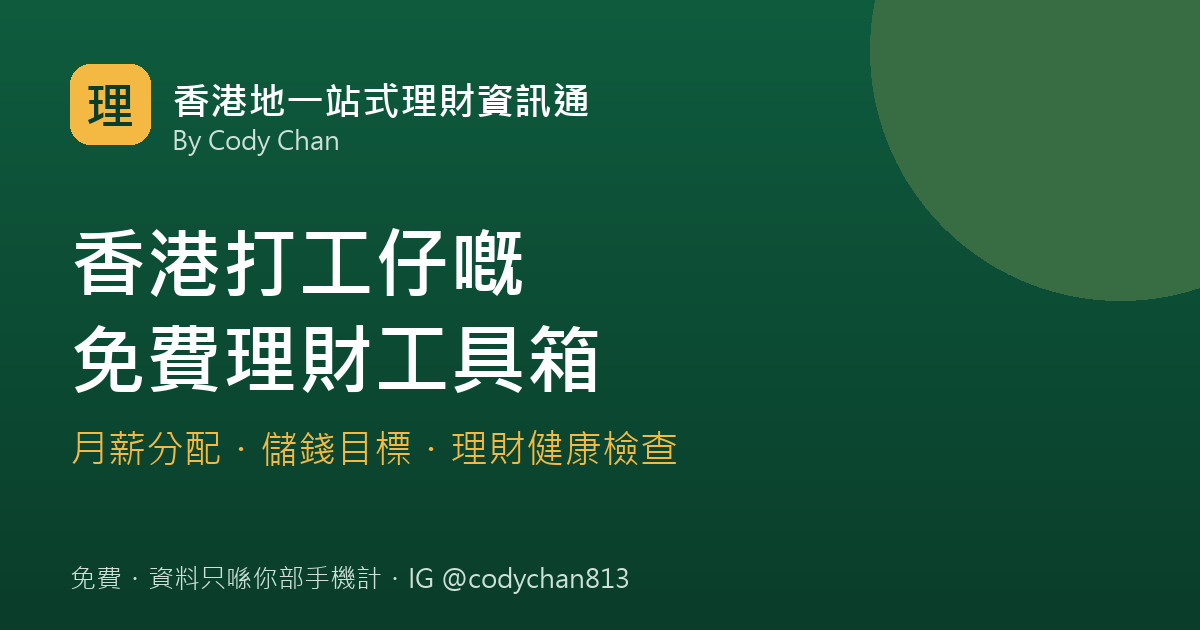
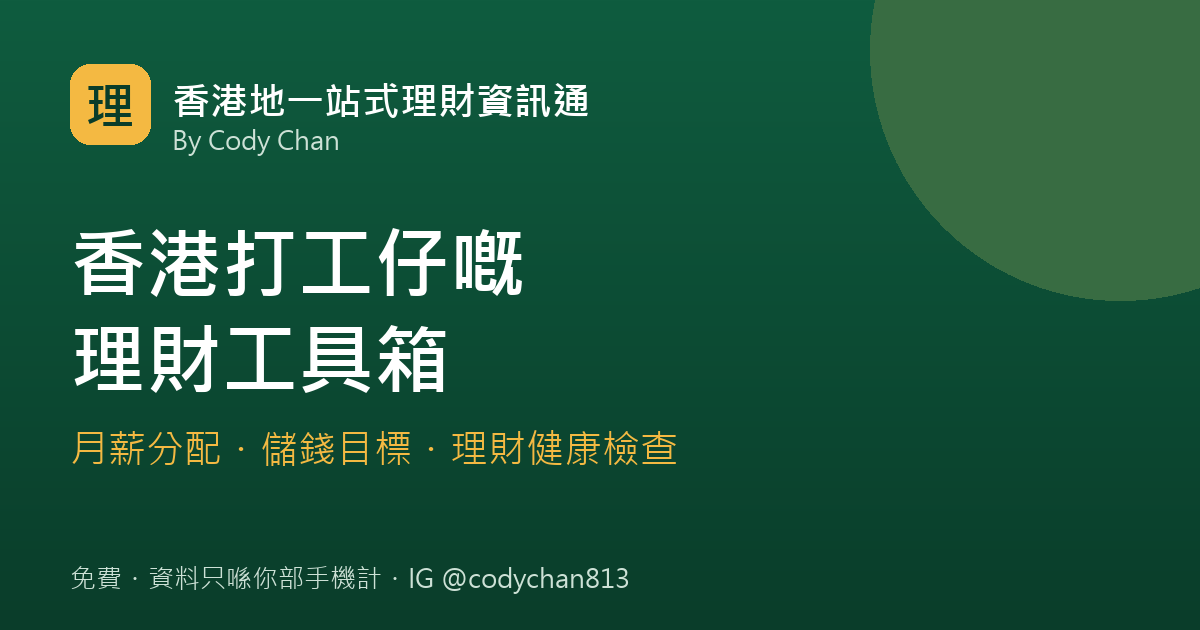
content: drop 免費 from homepage headline, title and share image

Changed region(s): [[0.0617, 0.5127, 0.4933, 0.6333]]

diff --git a/index.html b/index.html
@@ -3,8 +3,8 @@
 <head>
   <meta charset="utf-8">
   <meta name="viewport" content="width=device-width, initial-scale=1, viewport-fit=cover">
-  <title>香港地一站式理財資訊通 By Cody Chan｜香港打工仔免費理財計算工具</title>
-  <meta name="description" content="香港打工仔嘅免費理財工具箱：月薪扣強積金後實際到手幾多、儲 50 萬要幾耐、理財健康檢查，仲有醫療費用數據、雙週市場速遞同信用卡回贈整理。">
+  <title>香港地一站式理財資訊通 By Cody Chan｜香港打工仔理財計算工具</title>
+  <meta name="description" content="香港打工仔嘅理財工具箱：月薪扣強積金後實際到手幾多、儲 50 萬要幾耐、理財健康檢查，仲有醫療費用數據、雙週市場速遞同信用卡回贈整理。">
   <meta name="theme-color" content="#0F5C3F">
   <link rel="stylesheet" href="/assets/css/style.css">
 </head>
@@ -13,7 +13,7 @@
   <div class="wrap stack">
     <section class="hero">
       <div class="kicker">香港地一站式理財資訊通</div>
-      <h1>香港打工仔嘅免費理財工具箱</h1>
+      <h1>香港打工仔嘅理財工具箱</h1>
       <p><b>月薪 $18,000，扣埋強積金同交租，其實每月仲可以儲幾多？</b>唔講大道理，直接計。全部免費，資料只喺你部手機計，唔會上傳。</p>
     </section>
 

diff --git a/scripts/make_images.py b/scripts/make_images.py
@@ -14,7 +14,7 @@ FONT_REG = "C:/Windows/Fonts/msjh.ttc"
 G9, G8, ACCENT, WHITE = (10, 61, 42), (15, 92, 63), (244, 185, 66), (255, 255, 255)
 
 CARDS = {
-    "home": ("🧰", "香港打工仔嘅|免費理財工具箱", "月薪分配・儲錢目標・理財健康檢查"),
+    "home": ("🧰", "香港打工仔嘅|理財工具箱", "月薪分配・儲錢目標・理財健康檢查"),
     "salary": ("💰", "月薪扣強積金，|實際到手幾多？", "月薪分配計算器：50/30/20 即刻分好"),
     "goal": ("🎯", "想儲 50 萬要幾耐？", "理財目標計算機：唔同回報率一次過比較"),
     "health": ("🩺", "2 分鐘幫荷包做身體檢查", "理財健康檢查：10 條問題睇清楚"),
